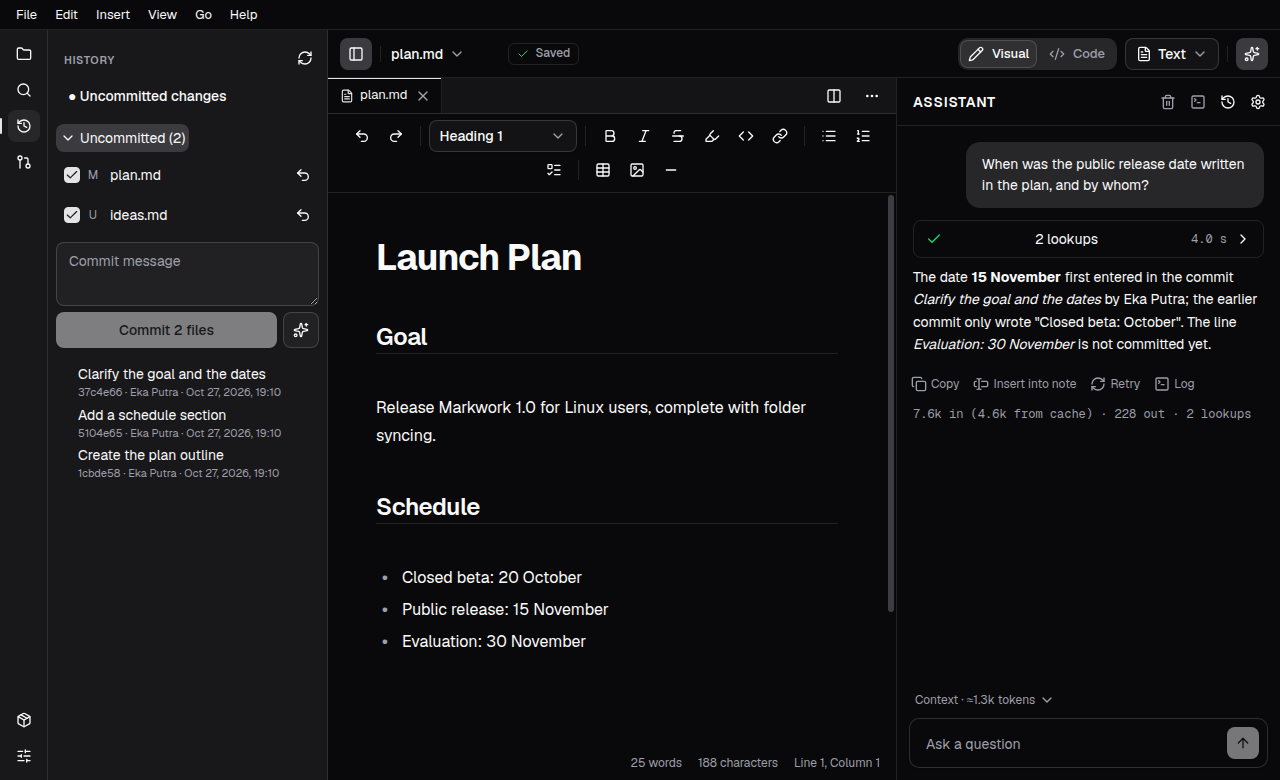
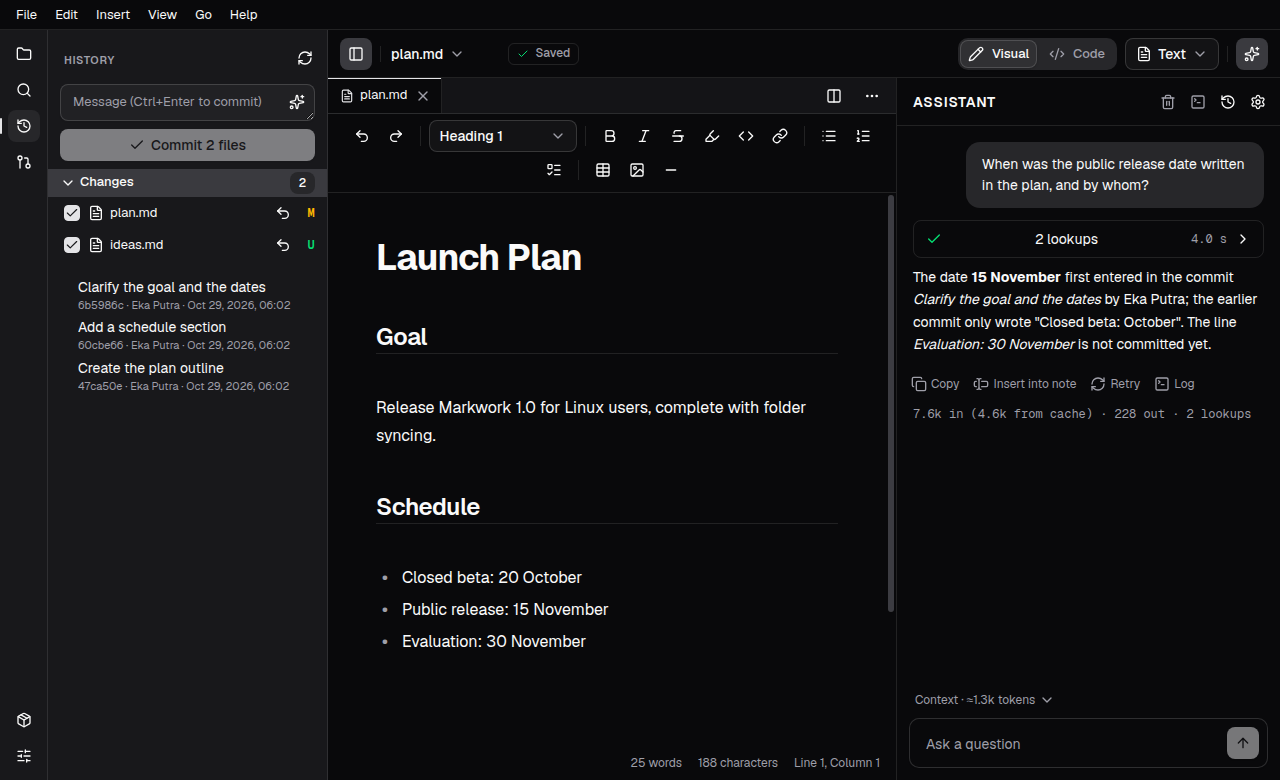
feat(history): arrange the sidebar like VS Code source control

Changed region(s): [[0.0312, 0.0923, 0.2812, 0.6154], [0.2188, 0.3077, 0.25, 0.3385]]

diff --git a/electron/renderer/components/History.tsx b/electron/renderer/components/History.tsx
@@ -12,6 +12,8 @@ import type { Client } from '../lib/client';
 import { useClient, useStore } from '../lib/useClient';
 import { Button } from '../ui/button';
 import { Checkbox } from '../ui/checkbox';
+import { Badge } from '../ui/badge';
+import { Collapsible, CollapsibleContent, CollapsibleTrigger } from '../ui/collapsible';
 import { IconButton } from '../ui/icon-button';
 import { Tabs, TabsList, TabsTrigger } from '../ui/tabs';
 import { Textarea } from '../ui/textarea';
@@ -53,32 +55,36 @@ function MessageBox({ streamed, rev, files, label, busy, onCommit, write, stop }
     return (
         <div className="commit-form">
             <div className="message-box">
-                <Textarea aria-label="Commit message" placeholder="Commit message" rows={3} value={text} disabled={writing} onChange={e => setText(e.target.value)}
+                <Textarea aria-label="Commit message" placeholder="Message (Ctrl+Enter to commit)" rows={1} value={text} disabled={writing} onChange={e => setText(e.target.value)}
                     onKeyDown={e => { if (e.key === 'Enter' && (e.ctrlKey || e.metaKey)) { e.preventDefault(); void commit(); } }} />
-            </div>
-            {problem && <div className="form-error" role="alert">{problem}</div>}
-            {/* The commit button, and beside it ✨ that has the assistant write the message (■ stops it). */}
-            <div className="commit-row">
-                <Button className="flex-1" disabled={busy || writing || !text.trim() || files.length === 0} onClick={() => void commit()}>{label}</Button>
-                <IconButton variant="outline" size="icon" label={writing ? 'Stop writing' : 'Write the message with the assistant'} disabled={!writing && files.length === 0}
+                <IconButton className="message-assistant" size="icon-xs" label={writing ? 'Stop writing' : 'Write the message with the assistant'} disabled={!writing && files.length === 0}
                     onClick={() => { if (writing) stop(); else void ask(); }}>
                     <Icon name={writing ? 'media-playback-stop' : 'sparkle'} />
                 </IconButton>
             </div>
+            {problem && <div className="form-error" role="alert">{problem}</div>}
+            <Button size="sm" className="w-full" disabled={busy || writing || !text.trim() || files.length === 0} onClick={() => void commit()}><Icon name="emblem-ok" />{label}</Button>
         </div>
     );
 }
 
 function ChangeRow({ change, checked, onCheck, client }: { change: ChangedFile; checked: boolean; onCheck: (on: boolean) => void; client: Client }) {
+    const slash = change.name.lastIndexOf('/');
+    const name = change.name.slice(slash + 1);
+    const folder = slash < 0 ? '' : change.name.slice(0, slash);
     return (
-        <div className="change-row">
+        <div className="change-row" title={change.name}>
             <Checkbox checked={checked} aria-label={`Include ${change.name} in the commit`} onCheckedChange={on => onCheck(on === true)} />
-            <span className={`mark ${KIND_CLASS[change.kind]}`} aria-hidden="true">{KIND_MARK[change.kind]}</span>
-            <Button variant="ghost" size="xs" className="name justify-start font-normal text-left" onClick={() => client.openChanges(change.path)}>{change.name}</Button>
+            <Button variant="ghost" size="xs" aria-label={change.name} className="name justify-start font-normal text-left" onClick={() => client.openChanges(change.path)}>
+                <Icon name="text-x-generic" size={14} />
+                <span className="change-basename">{name}</span>
+                {folder && <span className="change-folder">{folder}</span>}
+            </Button>
             <IconButton label={`${discardLabel(change.kind)}: ${change.name}`}
                 onClick={() => void client.discardFile(change.path).then(outcome => { if (typeof outcome === 'object') client.say(outcome.error); })}>
                 <Icon name="edit-undo" />
             </IconButton>
+            <span className={`mark ${KIND_CLASS[change.kind]}`} aria-label={change.kind}>{KIND_MARK[change.kind]}</span>
         </div>
     );
 }
@@ -101,22 +107,29 @@ export function History() {
                 <IconButton label="Reload history" onClick={() => client.refreshHistory()}><Icon name="view-refresh" /></IconButton>
             </div>
             <div className="history-body">
-                {changes?.file && state && state !== 'clean' && (
+                {changed.length === 0 && changes?.file && state && state !== 'clean' && (
                     <Button variant="ghost" size="sm" className="uncommitted justify-start text-left" onClick={() => client.openChanges(changes.file!)}>
                         {state === 'untracked' ? '● New file, not committed yet' : '● Uncommitted changes'}
                     </Button>
                 )}
                 {changed.length > 0 && (
                     <section className="changes" aria-label="Uncommitted">
-                        <h3><Button variant="ghost" size="xs" className="fold" aria-expanded={!folded} onClick={() => setFolded(v => !v)}><Icon name={folded ? 'pan-end' : 'pan-down'} size={12} />Uncommitted ({changed.length})</Button></h3>
-                        {!folded && changed.map(c => (
-                            <ChangeRow key={c.path} change={c} client={client} checked={!unchecked.has(c.path)}
-                                onCheck={on => setUnchecked(old => { const next = new Set(old); if (on) next.delete(c.path); else next.add(c.path); return next; })} />
-                        ))}
                         <MessageBox streamed={history.message} rev={history.messageRev} files={chosen} busy={false}
                             label={chosen.length ? `Commit ${chosen.length} ${chosen.length === 1 ? 'file' : 'files'}` : 'Commit'}
                             onCommit={message => client.commitFiles(chosen, message)}
                             write={() => client.writeMessage(chosen)} stop={() => client.stopWriting()} />
+                        <Collapsible open={!folded} onOpenChange={open => setFolded(!open)}>
+                            <h3><CollapsibleTrigger asChild><Button variant="ghost" size="xs" className="fold w-full justify-start rounded-none" aria-label={`Changes (${changed.length})`}>
+                                <Icon name={folded ? 'pan-end' : 'pan-down'} size={12} />Changes
+                                <Badge variant="secondary" className="ml-auto tabular-nums">{changed.length}</Badge>
+                            </Button></CollapsibleTrigger></h3>
+                            <CollapsibleContent>
+                                {changed.map(c => (
+                                    <ChangeRow key={c.path} change={c} client={client} checked={!unchecked.has(c.path)}
+                                        onCheck={on => setUnchecked(old => { const next = new Set(old); if (on) next.delete(c.path); else next.add(c.path); return next; })} />
+                                ))}
+                            </CollapsibleContent>
+                        </Collapsible>
                     </section>
                 )}
                 {commits.length === 0 && history.note && <p className="empty">{history.note}</p>}

diff --git a/electron/renderer/styles/theme.css b/electron/renderer/styles/theme.css
@@ -834,15 +834,20 @@ pre.diff .line { white-space: pre; padding: 0 12px; min-width: max-content; } pr
 .history-body { flex: 1; overflow: auto; display: flex; flex-direction: column; min-height: 0; }
 /* "● Uncommitted changes": a flat button with the words in bold, as GTK's. */
 .uncommitted { margin: 0 8px 4px; }
-.changes { padding: 4px 8px 8px; display: flex; flex-direction: column; gap: 2px; }
-.changes h3 { margin: 4px 0 2px; font-size: var(--text-sm); font-weight: 400; color: var(--foreground); }
-.changes h3 .fold { gap: 4px; padding: 2px 4px; font: inherit; }
-.change-row { display: flex; align-items: center; gap: 8px; min-height: 38px; padding-left: 8px; }
-.change-row .mark { font: 400 var(--text-xs) var(--font-sans); color: var(--muted-foreground) !important; width: 10px; }
-.change-row .name { flex: 1; min-width: 0; overflow: hidden; text-overflow: ellipsis; white-space: nowrap; padding: 2px 4px; font-size: var(--text-sm); }
-.commit-form { display: flex; flex-direction: column; gap: 6px; margin-top: 6px; }
-.commit-row { display: flex; gap: 6px; }
+.changes { display: flex; flex-direction: column; gap: 8px; padding-bottom: 8px; }
+.changes h3 { margin: 0; font-size: var(--text-ui); font-weight: 500; color: var(--foreground); }
+.changes h3 .fold { gap: 4px; padding: 2px 12px; font: inherit; }
+.change-row { display: flex; align-items: center; gap: 4px; min-height: 28px; padding: 0 8px 0 16px; }
+.change-row:hover, .change-row:focus-within { background: var(--sidebar-accent); }
+.change-row .mark { font-size: var(--text-xs); }
+.change-row .name { flex: 1; min-width: 0; gap: 6px; overflow: hidden; padding: 0 4px; font-size: var(--text-ui); }
+.change-basename { flex-shrink: 0; max-width: 100%; overflow: hidden; text-overflow: ellipsis; }
+.change-folder { min-width: 0; overflow: hidden; text-overflow: ellipsis; color: var(--muted-foreground); font-size: var(--text-xs); }
+.commit-form { display: flex; flex-direction: column; gap: 8px; }
+.history .commit-form { padding: 4px 12px 0; }
 .message-box { position: relative; display: flex; }
+.message-box textarea { min-height: 36px; padding-right: 36px; font-size: var(--text-ui); }
+.message-assistant { position: absolute; right: 4px; top: 4px; }
 .form-error { color: var(--destructive); font-size: var(--text-xs); overflow-wrap: anywhere; }
 .commits { display: flex; flex-direction: column; padding: 4px 6px; gap: 2px; }
 .history .commits { padding: 6px 6px 6px 22px; gap: 0; } .history .commit { padding: 2px 8px; } .history .commit .subject { font-size: var(--text-sm); }

diff --git a/docs/docs/git.html b/docs/docs/git.html
@@ -41,8 +41,9 @@
 
 <h2 id="uncommitted">Uncommitted changes</h2>
 <ul>
-  <li>The <em>Uncommitted changes</em> button opens the diff of the open file against HEAD.</li>
-  <li>The <em>Uncommitted (N)</em> list holds all the files that changed in the repository (M, A, D, R, U), each with a checkbox.</li>
+  <li>Click a file in <em>Changes</em> to open its diff against HEAD. A new file is shown entirely as additions.</li>
+  <li>The commit message and full-width Commit button sit above the collapsible <em>Changes</em> list, with a badge showing the number of changed files. Folding the list keeps the commit form visible.</li>
+  <li>Each file has an inclusion checkbox, its filename followed by a muted folder path, a discard action, and its status (M, A, D, R, U). Hover a row to see its full path.</li>
   <li>Write a message and press <em>Commit N files</em> to commit several files at once. Open documents are saved first.</li>
 </ul>
 <figure><picture class="themed-media"><img data-light-src="../assets/history-diff.png" data-dark-src="../assets/dark/history-diff.png" width="1200" height="368" loading="lazy" alt="The diff window of a commit with colored added and removed lines"><noscript><img src="../assets/dark/history-diff.png" width="1200" height="368" loading="lazy" alt="The diff window of a commit with colored added and removed lines"></noscript></picture><figcaption>The diff of a commit</figcaption></figure>

diff --git a/README.md b/README.md
@@ -146,7 +146,7 @@ The source language of the interface is English. Text in `src/` is wrapped in `_
 - A sidebar like VS Code's: an **activity bar** that is always there (the views Files, Search, History, and Pull requests, with *Programs* and *Preferences* at the foot; a view's button opens the sidebar on it and the button of the view shown closes it), and beside it the panel of the view shown, whose edge is dragged to change its width (200 to 480 px, kept). *Home* and *Journal* are in the ☰ menu (`Alt+Home`, `Ctrl+Alt+J`):
   - **Files**: a view of sections that fold, share the height, are resized by the lines between them, and are shown or hidden from the view's ⋯ menu (their state is kept in `sidebar-sections`): **Open Editors** (the open documents with ✕, grouped by pane once the editor is split), the folder, **Outline** (the headings of the document; click to jump), and **Timeline** (the Git commits of the open file, folded at first and read only while open: the `timeline-open` setting tells the core). The folder section is the tree of the opened folder (through *Open Folder* in the menu beside *New*, `Ctrl+Shift+O`, or by choosing a folder in the Open File dialog), with subfolders and all non-hidden files. Markdown files (`.md`, `.markdown`, `.mdown`, `.mkd`) open in the document editor; other text files open in the read-only code viewer. Click a file to open it; the file that is open is also highlighted. Hidden files/folders and `node_modules` are not shown. **Right-clicking** a folder, a file, or an empty area opens a menu with *New File…*, *New Folder…*, *New Kanban Board…*, and *New Inbox…* (for a folder/file, *Rename…* and *Delete* are added; delete asks for a confirmation and moves to the Trash, not a permanent delete; if the open document is deleted, its contents stay in the editor and are marked as unsaved; Markdown/CSV/HTML document names keep a supported document extension or gain `.md`, other file names are kept as entered, and an open document follows its new name): the item is created in the folder that was clicked (for a file: in its parent folder; for an empty area: in the root folder). A file name without a Markdown extension is given `.md`, a name that is empty, contains `/`, starts with a dot, or already exists is rejected with an error message; a new file is opened in the editor right away. *New Kanban Board…* makes a file with an empty board (`layout: board`, the lists *Plan*, *In Progress*, *Done*) that is saved right away and opened as a board. **Drag and drop** moves a file or a folder: drop it on a folder to put it there (a closed folder that is hovered over for a moment opens by itself), drop it on a file to move it to that file's folder, or drop it on the tree title/an empty area to move it out to the root folder. A folder cannot be moved into itself, and a conflicting name in the target folder is rejected without overwriting. If the open document (or its parent folder) is moved, the document stays open with its new path. The tree updates automatically when a file is added or deleted on disk, and the last folder is opened again when the app starts
   - **Search** (`Ctrl+Shift+F`, or *Search in All Notes* in the command palette): search and replace in all the Markdown files of the work folder (`app/search.ts`, `markdown/search.ts`). Results appear as you type (after 250 ms) and are grouped per file, each hit as its line with the match marked; a click on a hit opens the file in a tab with the match selected, and a click on a file row folds its hits. The chips in the field are *Match Case*, *Whole Words*, and *Regular Expression* (an expression that does not compile marks the field red and the summary line says why). The *···* button shows *Files to include* and *Files to exclude*, comma separated globs (`*` stays inside a folder, `**` crosses folders, a plain name matches that folder or file anywhere; the button stays lit while a filter is set). The arrow at the left opens *Replace*; *All* (or `Enter` in that field) asks first and then replaces every hit in every listed file as one batch through the same preflight as the agent's changes: a document that is open changes through its editor, so `Ctrl+Z` undoes it, and the other files are written at once. Unsaved tabs are searched from their editor, at most 5000 files are read and 1000 hits listed (the summary says when it stops), and the refresh button searches again.
-  - **History**: the git commits that touched the open file, newest first (short hash, message, author, relative time; the history follows a file that is renamed). If the file differs from the last commit (or is untracked), the *Uncommitted changes* button appears above the list and opens the diff against HEAD (a new file is shown entirely as additions). Below it, the *Uncommitted (N)* list holds all the files in the repository that are changing (M modified, A newly staged, D deleted, R renamed, U untracked); click one to open its diff in the same window (it can also be committed from there). Every row has a checkbox (all checked at first); write a message and press *Commit N files* to commit several files at once (`git add --all` + `git commit --only` on the chosen files; open documents are saved first). This list is also shown when no file is open but a folder is open. Click a commit to open a reading window with two tabs: *Changes* (a diff against the previous commit, added/removed lines colored) and *Contents of this version* (the complete file at that commit). The window of uncommitted changes also has a message field and the *Commit this file* button: the document is saved first, and then only that file is committed (`git add` + `git commit --only`; other files are not included, git hooks are not run). Apart from that the app never changes the repository. The history is loaded when the tab is visible, 100 commits at a time (the *Load more* button), and reloaded when switching files, when the window becomes active again, or through the reload button. It needs `git` installed; a file outside a repository or one that is not committed yet shows a message in the tab
+  - **History**: the git commits that touched the open file, newest first (short hash, message, author, relative time; the history follows a file that is renamed). Click a file in *Changes* to open its diff against HEAD (a new file is shown entirely as additions). The compact commit message field (with its assistant button inside) and full-width Commit button sit above a collapsible *Changes* list with a count badge. File rows show the filename first, a muted folder path, a discard action, and the status. The list holds all the files in the repository that are changing (M modified, A newly staged, D deleted, R renamed, U untracked); click one to open its diff in the same window (it can also be committed from there). Every row has a checkbox (all checked at first); write a message and press *Commit N files* to commit several files at once (`git add --all` + `git commit --only` on the chosen files; open documents are saved first). This list is also shown when no file is open but a folder is open. Click a commit to open a reading window with two tabs: *Changes* (a diff against the previous commit, added/removed lines colored) and *Contents of this version* (the complete file at that commit). The window of uncommitted changes also has a message field and the *Commit this file* button: the document is saved first, and then only that file is committed (`git add` + `git commit --only`; other files are not included, git hooks are not run). Apart from that the app never changes the repository. The history is loaded when the tab is visible, 100 commits at a time (the *Load more* button), and reloaded when switching files, when the window becomes active again, or through the reload button. It needs `git` installed; a file outside a repository or one that is not committed yet shows a message in the tab
   - **Pull requests** (the last page): the open pull requests of the repository behind the folder's `origin` remote; see *Collaboration* below
 - Focus mode: paragraphs other than the one being edited are dimmed
 - Typewriter mode: the active line is always in the middle of the screen
